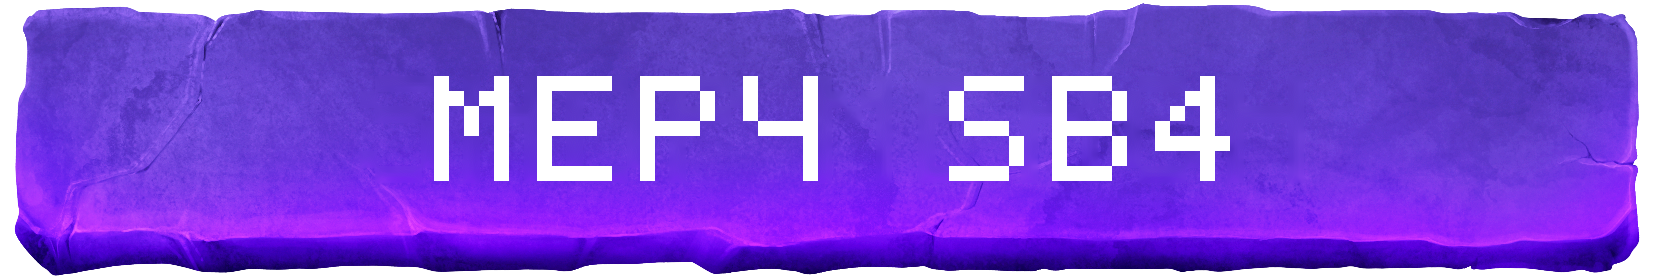
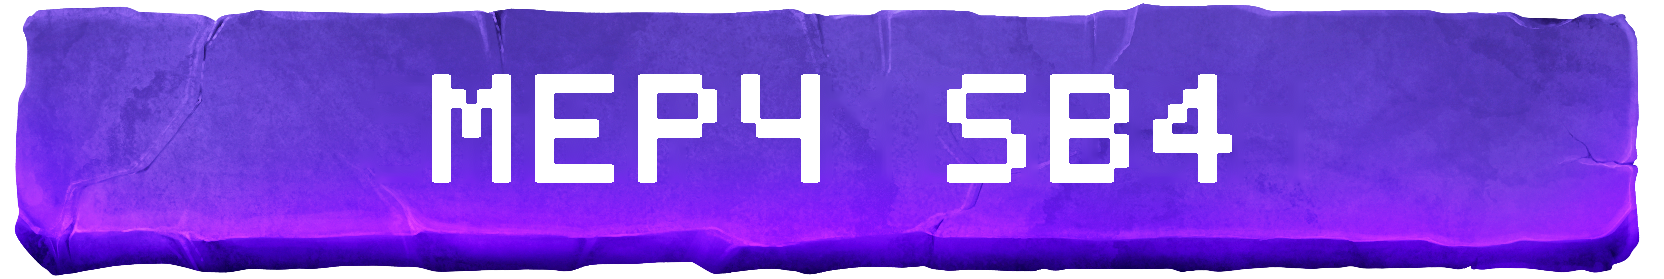
Кнопки меню v2: исправлена Й, штрих жирнее, углы скруглены; глубокий аудит всех 414 JAR — потерь нет

diff --git a/Проекты/StoneBlock 4/документация/JOURNAL_WAVE25_ARCHIVE_2026-10-26.md b/Проекты/StoneBlock 4/документация/JOURNAL_WAVE25_ARCHIVE_2026-10-26.md
@@ -29,3 +29,6 @@
 
 ## Дополнение: кнопки главного меню (перевыпуск v1.1.9)
 Пользователь указал, что на Диске лежит весь config/fancymenu, включая assets. Скачаны 30 PNG кнопок из `assets/buttons`. Маленькие кнопки (выход, язык, доступность, Auxilium, Discord) — чистые иконки без текста. Текстовые перерисованы: английский текст стёрт инпейнтингом по каменной текстуре, русский набран тем же пиксельным шрифтом (высота букв 105px = 7×15, замерено по оригиналу): SINGLEPLAYER→«ОДИНОЧНАЯ ИГРА», MULTIPLAYER→«СЕТЕВАЯ ИГРА», MODS→«МОДЫ», OPTIONS→«НАСТРОЙКИ», CREATE SERVER→«СОЗДАТЬ СЕРВЕР» (логотип BisectHosting сохранён), GET SB4 MERCH→«МЕРЧ SB4», JOIN OUR DISCORD→«НАШ DISCORD» (иконка сохранена). По 2 состояния (normal/hover — hover в сборке фиолетовый, сохранён как в оригинале), итого 16 PNG. FTB WORLDS оставлена как есть: это логотип сервиса. Файлы лежат в `документация/release/config/fancymenu/assets/buttons/` и попадают в архив релиза; v1.1.9 перевыпущена тем же тегом (мелкое дополнение недавнего релиза).
+
+## Кнопки v2 (по замечаниям пользователя)
+Й исправлена (ровная галочка по центру), штрих букв чуть утолщён, углы смягчены морфологией. Плюс глубокий аудит целостности всех 414 JAR: количество записей и байтовое сравнение каждой записи с pristine-оригиналами (410 шт.) — потерь и посторонних изменений нет, кроме осознанного удаления фейкового lang у Fallen Relics; testzip по всем JAR чистый.
